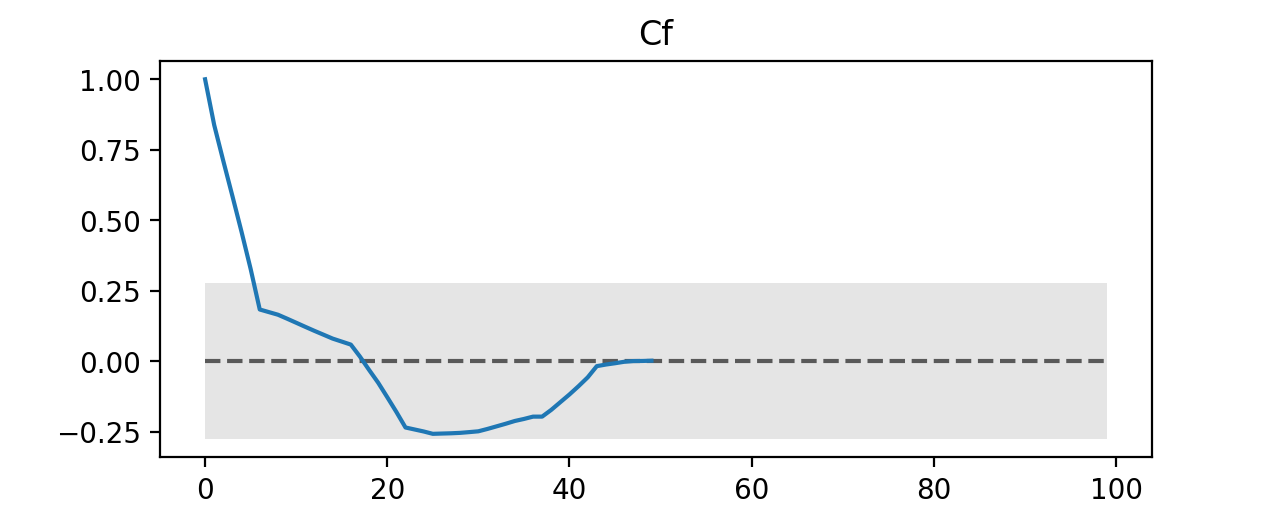
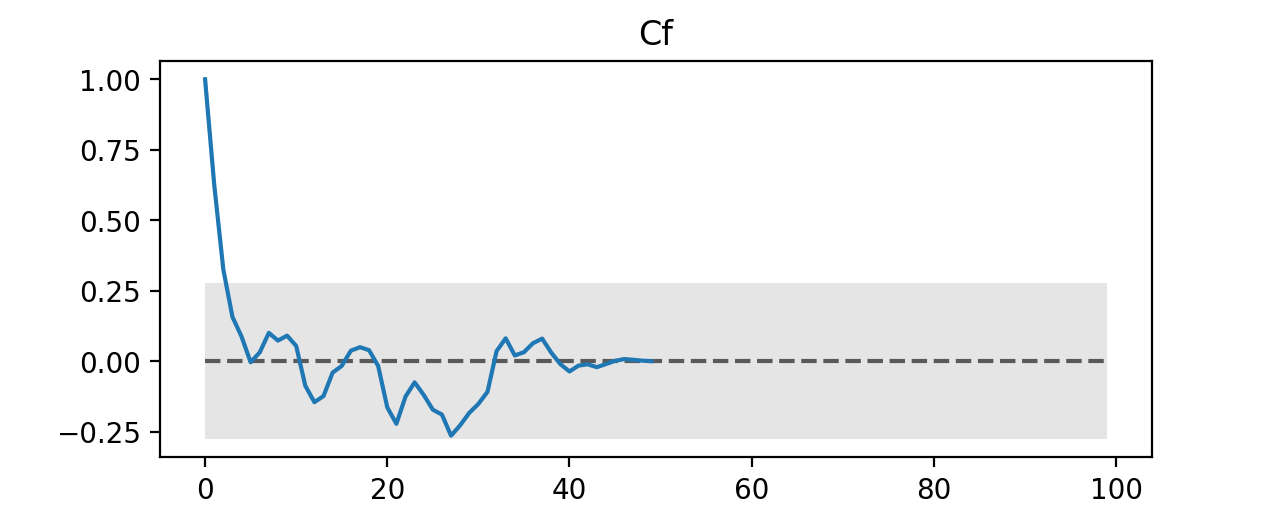
misc stuff, just porting over to pc

Changed region(s): [[0.1875, 0.6226, 0.4375, 0.8716], [0.1562, 0.1868, 0.2188, 0.6537], [0.375, 0.6537, 0.5, 0.7782]]

diff --git a/Sharpios1dFlowP4.py b/Sharpios1dFlowP4.py
@@ -938,24 +938,16 @@ if __name__ == '__main__':
 
     end_global = time.perf_counter()
     chamber_P_Initial =  resultsAtCorrectScale["pressure"][0]
-    print("num steps",len(resultsAtCorrectScale["x"]))
-    print("P Count", resultsAtCorrectScale["Preburner Count"], "C Count", resultsAtCorrectScale["Conv Count"],"T Count",  resultsAtCorrectScale["throat Count"])
+    
+    #print("num steps",len(resultsAtCorrectScale["x"]))
+    #print("P Count", resultsAtCorrectScale["Preburner Count"], "C Count", resultsAtCorrectScale["Conv Count"],"T Count",  resultsAtCorrectScale["throat Count"])
 
-    print(f"Sweep time: {end_sweep - start_sweep:.6f} s")
-    print(f"Hybrid time: {end_root - start_root:.6f} s")
-    print(f"Solver time: {end_Solver - start_Solver:.6f} s")
-    print(f"Total time: {end_global - start_global:.6f} s")
-
-
-    plt.plot(resultsAtCorrectScale["x"], resultsAtCorrectScale["entropy"])
-    plt.xlabel("X")
-    plt.ylabel("mach num")
-    plt.title("X vs Mach num")
-    plt.grid()
-    plt.show()
+    #print(f"Sweep time: {end_sweep - start_sweep:.6f} s")
+    #print(f"Hybrid time: {end_root - start_root:.6f} s")
+    #print(f"Solver time: {end_Solver - start_Solver:.6f} s")
+    #print(f"Total time: {end_global - start_global:.6f} s")
 
 
-'''
     with pm.Model() as model:
         #prior for Cf
         mu = 0.004
@@ -994,7 +986,7 @@ if __name__ == '__main__':
     az.plot_autocorr(trace, var_names=["Cf"])
     plt.savefig("Cf_autocorr.png", dpi=200)
     plt.show()
-'''
+
 #az.plot_posterior(trace, var_names=["Cf"], ref_val=True_Cf)
 #plt.savefig("Cf_posterior.png", dpi=200)
 #plt.show()
